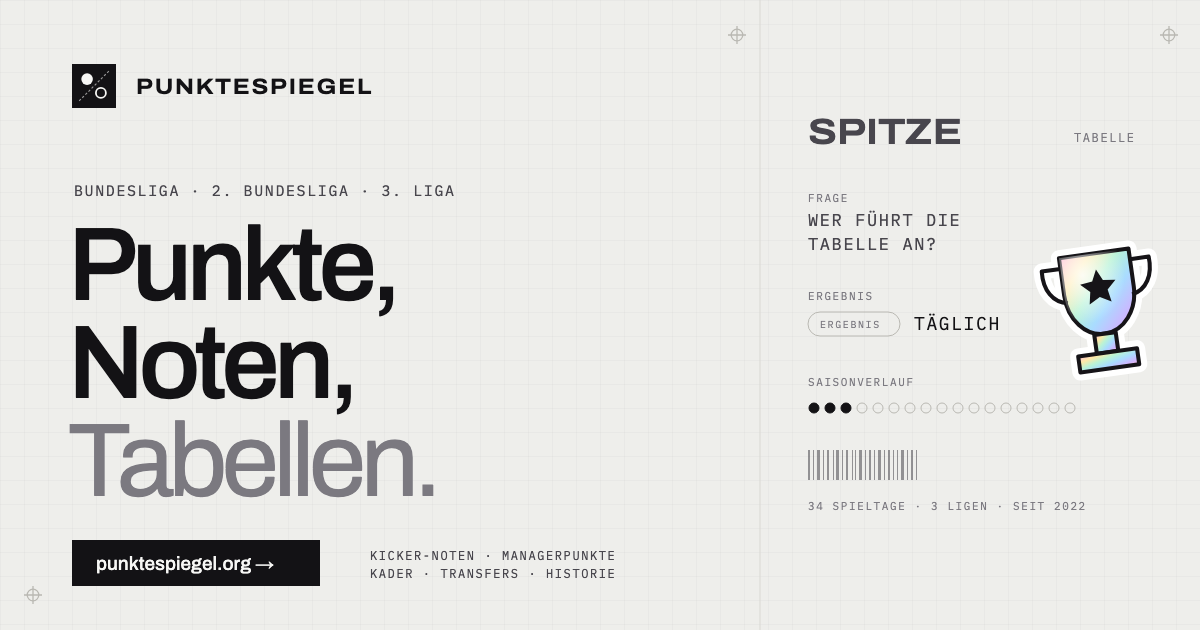
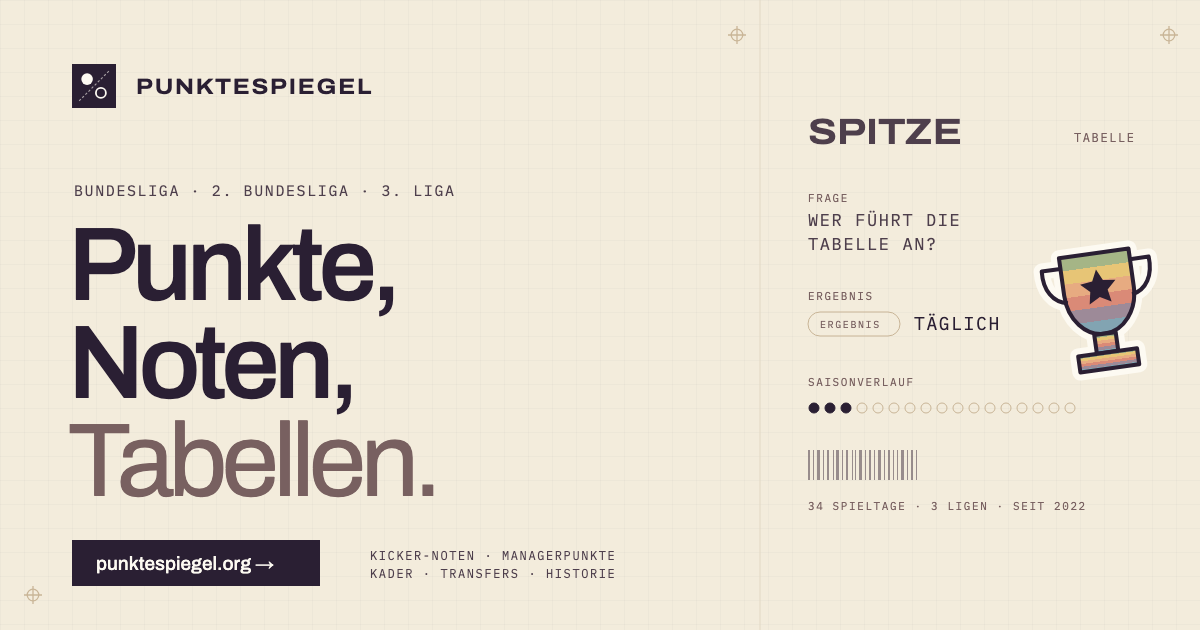
release: Punktespiegel 1.28.1

diff --git a/CHANGELOG.md b/CHANGELOG.md
@@ -2,6 +2,12 @@
 
 Alle wesentlichen Änderungen an Punktespiegel werden in dieser Datei dokumentiert.
 
+## [1.28.1] – 2026-10-09
+
+### Geändert
+
+- Favicon, Logo, App-Icons und Vorschaubild (Open Graph) nutzen die neue Palette „Welcome home“: Aubergine statt Schwarz, Leinenpapier als Fläche, Regenbogenstreifen statt Pastellverlauf. PNG-Dateien neu gerendert.
+
 ## [1.28.0] – 2026-10-09
 
 ### Geändert
